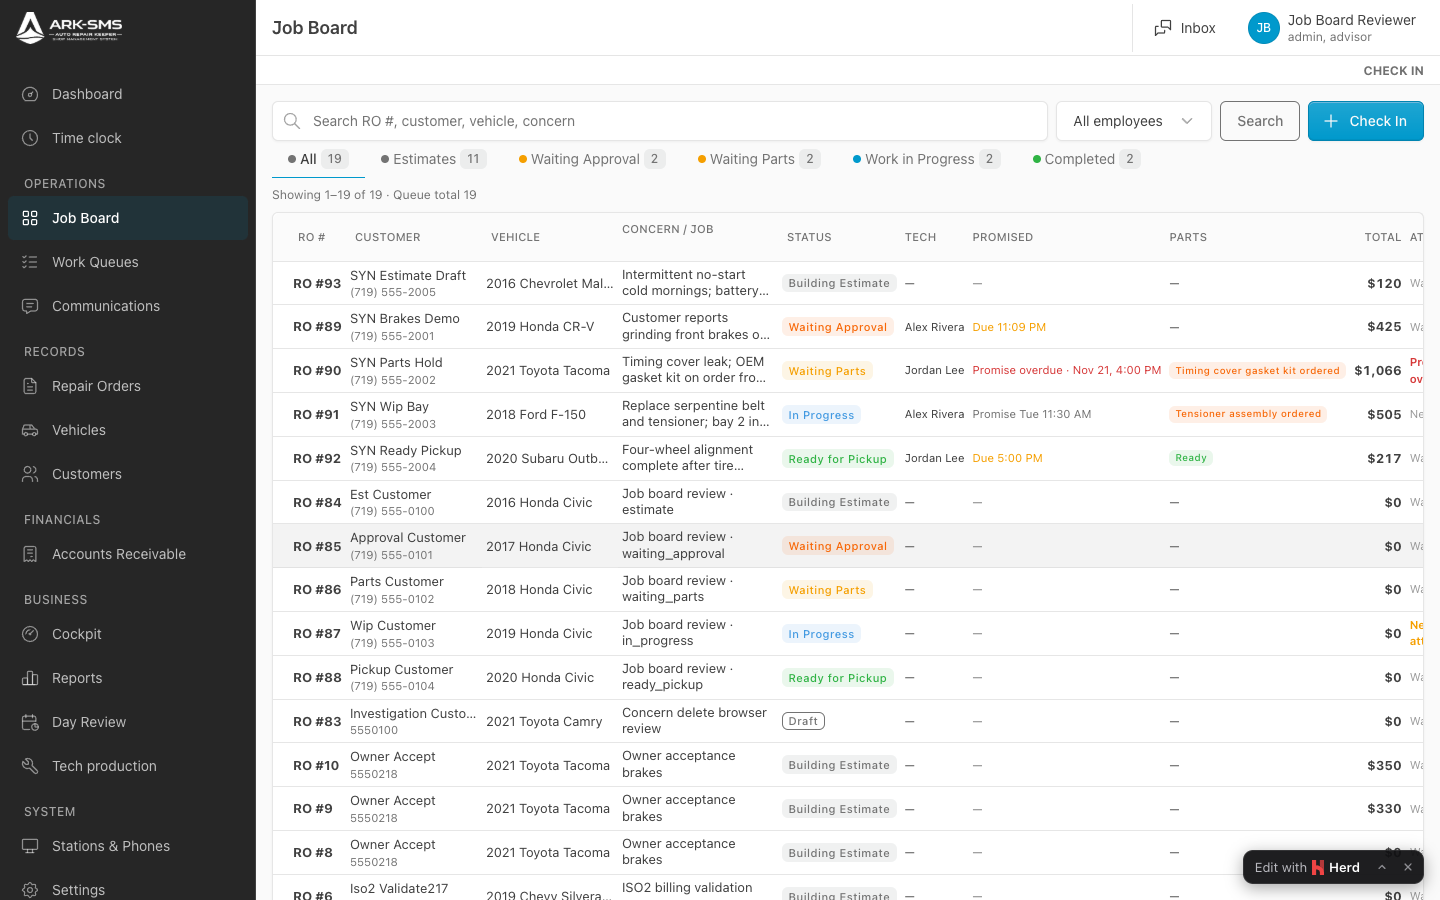
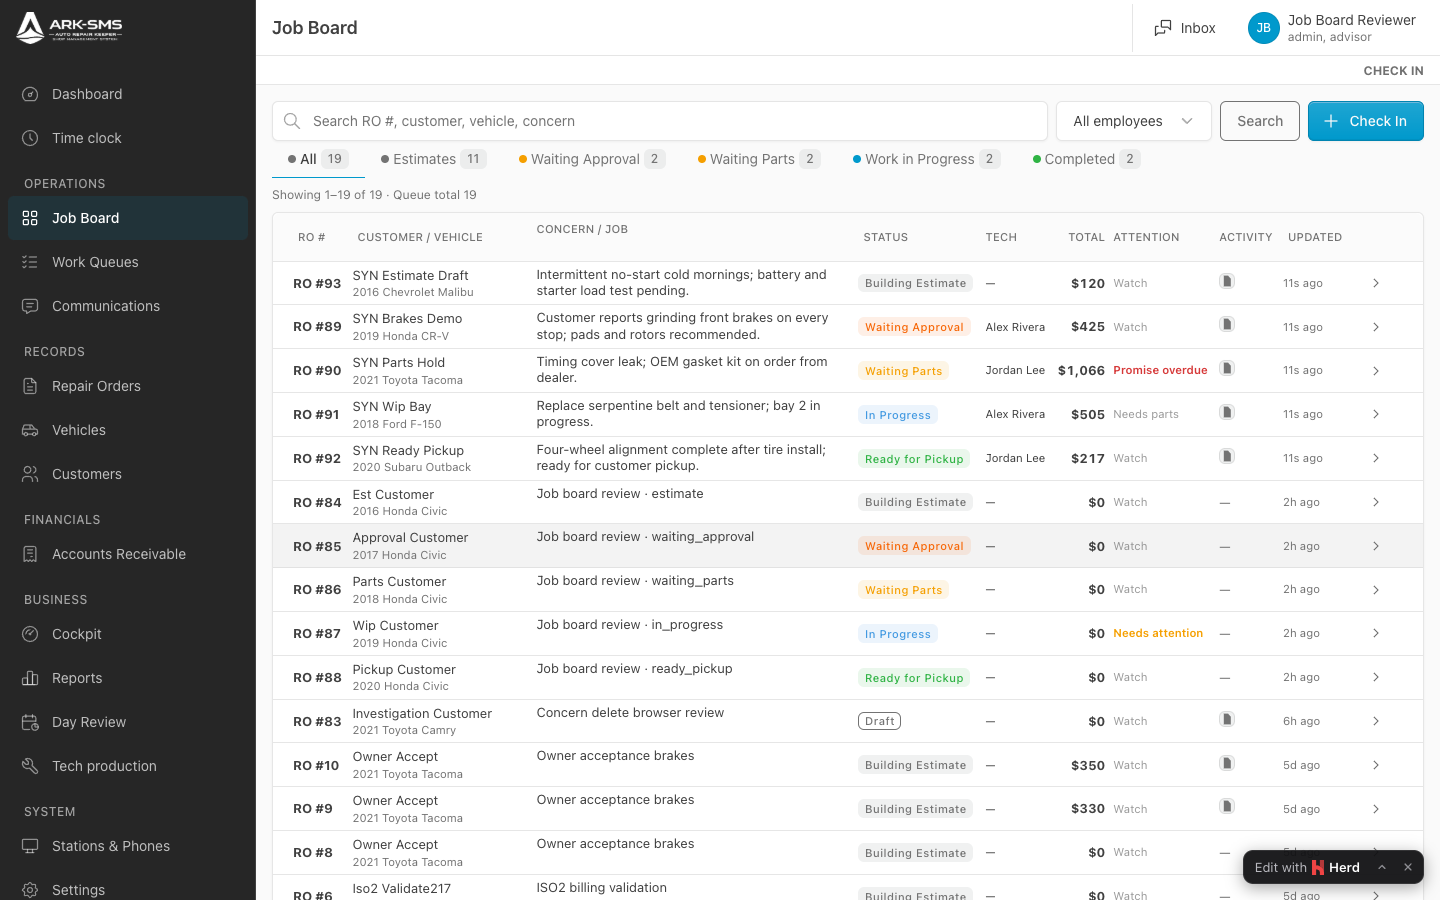
Tighten Job Board columns to owner RO index layout (#252).
Drop Promised and Parts from the list presentation, combine Customer/Vehicle, and give Concern the reclaimed width without changing underlying promise or parts workflows.

diff --git a/resources/css/tabler.css b/resources/css/tabler.css
@@ -64,18 +64,17 @@
     font-size: 0.8125rem;
 }
 
-.ark-job-board-table .ark-job-board-col-customer {
-    max-width: 8.5rem;
-}
-
-.ark-job-board-table .ark-job-board-col-vehicle {
-    max-width: 8.5rem;
+.ark-job-board-table .ark-job-board-col-customer-vehicle {
+    min-width: 9rem;
+    max-width: 14rem;
+    width: 16%;
+    vertical-align: top;
 }
 
 .ark-job-board-table .ark-job-board-col-concern {
-    min-width: 10rem;
-    max-width: 16rem;
-    width: 16%;
+    min-width: 12rem;
+    max-width: 28rem;
+    width: 28%;
     vertical-align: top;
 }
 
@@ -109,9 +108,14 @@
         --tblr-table-cell-padding-x: 0.3rem;
     }
 
-    .ark-job-board-table .ark-job-board-col-concern {
-        min-width: 8.5rem;
+    .ark-job-board-table .ark-job-board-col-customer-vehicle {
+        min-width: 8rem;
         max-width: 12rem;
+    }
+
+    .ark-job-board-table .ark-job-board-col-concern {
+        min-width: 10rem;
+        max-width: 18rem;
     }
 }
 

diff --git a/tests/Feature/Operations/JobBoardListViewTest.php b/tests/Feature/Operations/JobBoardListViewTest.php
@@ -77,10 +77,17 @@ test('job board table renders dense columns including total and activity marks',
         ->and($xpath->query('.//*[@id="ops-list-ro-'.$parts->repair_order_id.'"]', $board)->length)->toBe(1)
         ->and($xpath->query('.//*[@id="ops-list-ro-'.$closed->repair_order_id.'"]', $board)->length)->toBe(0)
         ->and($xpath->query('.//*[@data-job-board-sort="ro"]', $board)->length)->toBe(1)
+        ->and($xpath->query('.//*[@data-job-board-sort="customer"]', $board)->length)->toBe(1)
+        ->and($xpath->query('.//*[@data-job-board-row-customer-vehicle]', $board)->length)->toBe(2)
         ->and($xpath->query('.//*[@data-job-board-row-total]', $board)->length)->toBe(2)
         ->and($xpath->query('.//*[@data-job-board-row-activity]', $board)->length)->toBe(2)
+        ->and($xpath->query('.//*[@data-job-board-row-promised]', $board)->length)->toBe(0)
+        ->and($xpath->query('.//*[@data-job-board-row-parts]', $board)->length)->toBe(0)
+        ->and($html)->toContain('Customer / Vehicle')
         ->and($html)->toContain('Brake noise diagnosis')
         ->and($html)->toContain('Attention')
+        ->and($html)->not->toContain('>Promised<')
+        ->and($html)->not->toContain('>Parts</th>')
         ->and($html)->toContain('data-job-board-list-mobile');
 });
 
@@ -344,10 +351,13 @@ test('job board click contract keeps RO vehicle and customer destinations separa
         ->and($vehicleHref)->toContain('/repair-orders/'.$roId)
         ->and($customerHref)->toContain('/customers/'.$customerId)
         ->and($customerHref)->not->toContain('/repair-orders/')
-        ->and($xpath->query('.//td[@data-job-board-row-concern]//a', $row)->length)->toBe(0);
+        ->and($xpath->query('.//*[@data-job-board-row-customer-vehicle]', $row)->length)->toBe(1)
+        ->and($xpath->query('.//td[@data-job-board-row-concern]//a', $row)->length)->toBe(0)
+        ->and($xpath->query('.//*[@data-job-board-row-promised]', $row)->length)->toBe(0)
+        ->and($xpath->query('.//*[@data-job-board-row-parts]', $row)->length)->toBe(0);
 });
 
-test('job board acceptance scenario surfaces tech promise parts and varied totals', function () {
+test('job board acceptance scenario surfaces tech status totals without promised or parts columns', function () {
     $advisor = actingAsLearnCurrentAdvisor();
     JobBoardAcceptanceScenario::seed($advisor);
 
@@ -362,10 +372,13 @@ test('job board acceptance scenario surfaces tech promise parts and varied total
         ->and($html)->toContain('Alex Rivera')
         ->and($html)->toContain('Jordan Lee')
         ->and($html)->toContain('grinding front brakes')
-        ->and($html)->toContain('Promise overdue')
-        ->and($html)->toContain('Due ')
-        ->and($html)->toContain('Promise ')
-        ->and($xpath->query('//*[@data-job-board-row-parts]//*[contains(@class,"badge")]')->length)->toBeGreaterThan(0)
+        ->and($html)->toContain('Customer / Vehicle')
+        ->and($html)->toContain('Waiting Parts')
+        ->and($xpath->query('//*[@data-job-board-row-customer-vehicle]', $document)->length)->toBeGreaterThan(0)
+        ->and($xpath->query('//*[@data-job-board-row-promised]', $document)->length)->toBe(0)
+        ->and($xpath->query('//*[@data-job-board-row-parts]', $document)->length)->toBe(0)
+        ->and($html)->not->toContain('>Promised<')
+        ->and($html)->not->toContain('>Parts</th>')
         ->and($html)->toContain('$425')
         ->and($html)->toContain('$1,066');
 });

diff --git a/resources/views/operations/workboard/partials/home-board-list-row.blade.php b/resources/views/operations/workboard/partials/home-board-list-row.blade.php
@@ -4,7 +4,6 @@
     $surface = $row->surface;
     $repairOrder = $card->repairOrder;
     $customerName = trim((string) ($repairOrder->customer?->name ?? ''));
-    $customerPhone = filled($surface->customerPhone) ? $surface->customerPhone : null;
     $statusLabel = filled($surface->chip->label) ? $surface->chip->label : 'No Status';
     $statusTone = filled($surface->chip->statusColor)
         ? \App\Ark\Operations\RepairOrders\Status\RepairOrderStatusColor::chipTone($surface->chip->statusColor)
@@ -16,11 +15,6 @@
         default => $surface->exceptionLabel,
     };
     $builderUrl = $card->href.'#builder';
-    $promiseToneClass = match ($surface->promiseTone) {
-        'overdue' => 'text-danger',
-        'today' => 'text-warning',
-        default => 'text-secondary',
-    };
     $isBalanceDue = $row->moneyCaption === 'due';
     $moneyLabel = filled($row->moneyLabel) ? $row->moneyLabel : '$0';
     $markClasses = fn (string $state): string => match ($state) {
@@ -52,7 +46,7 @@
     <td>
         <a href="{{ $builderUrl }}" class="fw-bold text-reset text-nowrap" data-job-board-row-ro data-job-card-ro>RO #{{ $repairOrder->repair_order_id }}</a>
     </td>
-    <td class="ark-job-board-col-customer">
+    <td class="ark-job-board-col-customer-vehicle" data-job-board-row-customer-vehicle>
         <div class="text-truncate">
             @if ($surface->customerHubUrl)
                 <a href="{{ $surface->customerHubUrl }}" class="text-reset" data-job-board-row-customer data-job-card-customer>{{ $customerName !== '' ? $customerName : 'Unknown customer' }}</a>
@@ -60,12 +54,9 @@
                 <span data-job-board-row-customer data-job-card-customer>{{ $customerName !== '' ? $customerName : 'Unknown customer' }}</span>
             @endif
         </div>
-        @if ($customerPhone)
-            <div class="small text-secondary text-truncate d-none d-xxl-block">{{ $customerPhone }}</div>
-        @endif
-    </td>
-    <td class="text-truncate ark-job-board-col-vehicle">
-        <a href="{{ $builderUrl }}" class="text-reset" data-job-board-row-vehicle data-job-card-vehicle>{{ $card->vehicleLabel }}</a>
+        <div class="small text-secondary text-truncate">
+            <a href="{{ $builderUrl }}" class="text-reset" data-job-board-row-vehicle data-job-card-vehicle>{{ $card->vehicleLabel }}</a>
+        </div>
     </td>
     <td
         class="text-body ark-job-board-col-concern"
@@ -81,16 +72,6 @@
     </td>
     <td class="text-nowrap small" data-job-board-row-technician>
         {{ $row->technicianName ?? '—' }}
-    </td>
-    <td @class(['text-nowrap small', $promiseToneClass]) data-job-board-row-promised>
-        {{ $surface->promiseLabel ?? '—' }}
-    </td>
-    <td class="text-nowrap small" data-job-board-row-parts>
-        @if ($row->partsLabel)
-            <span @class(['badge', $row->partsLabel === 'Ready' ? 'bg-success-lt' : 'bg-orange-lt'])>{{ $row->partsLabel }}</span>
-        @else
-            —
-        @endif
     </td>
     <td @class(['text-nowrap text-end fw-bold ark-money', 'text-danger' => $isBalanceDue]) data-job-board-row-total data-job-card-total>
         {{ $moneyLabel }}

diff --git a/resources/views/operations/workboard/partials/home-board-list.blade.php b/resources/views/operations/workboard/partials/home-board-list.blade.php
@@ -37,22 +37,17 @@
                 <table class="table table-vcenter table-hover card-table table-sm mb-0 ark-job-board-table">
                     <thead>
                         <tr>
-                            @foreach ([
-                                'ro' => 'RO #',
-                                'customer' => 'Customer',
-                                'vehicle' => 'Vehicle',
-                            ] as $sortKey => $label)
-                                <th scope="col" @if ($jobBoardListPage->ariaSort($sortKey)) aria-sort="{{ $jobBoardListPage->ariaSort($sortKey) }}" @endif>
-                                    <a href="{{ $jobBoardListPage->sortUrl($sortKey) }}" class="btn btn-ghost-secondary btn-sm px-1" data-job-board-sort="{{ $sortKey }}">{{ $label }}</a>
-                                </th>
-                            @endforeach
+                            <th scope="col" @if ($jobBoardListPage->ariaSort('ro')) aria-sort="{{ $jobBoardListPage->ariaSort('ro') }}" @endif>
+                                <a href="{{ $jobBoardListPage->sortUrl('ro') }}" class="btn btn-ghost-secondary btn-sm px-1" data-job-board-sort="ro">RO #</a>
+                            </th>
+                            <th scope="col" class="ark-job-board-col-customer-vehicle" @if ($jobBoardListPage->ariaSort('customer')) aria-sort="{{ $jobBoardListPage->ariaSort('customer') }}" @endif>
+                                <a href="{{ $jobBoardListPage->sortUrl('customer') }}" class="btn btn-ghost-secondary btn-sm px-1" data-job-board-sort="customer">Customer / Vehicle</a>
+                            </th>
                             <th scope="col" class="ark-job-board-col-concern">Concern / Job</th>
                             <th scope="col" @if ($jobBoardListPage->ariaSort('status')) aria-sort="{{ $jobBoardListPage->ariaSort('status') }}" @endif>
                                 <a href="{{ $jobBoardListPage->sortUrl('status') }}" class="btn btn-ghost-secondary btn-sm px-1" data-job-board-sort="status">Status</a>
                             </th>
                             <th scope="col">Tech</th>
-                            <th scope="col">Promised</th>
-                            <th scope="col">Parts</th>
                             <th scope="col" class="text-end">Total</th>
                             <th scope="col">
                                 <span title="ARK attention signal, not a user-entered priority" data-job-board-sort="attention">Attention</span>

diff --git a/review-artifacts/issue-251-job-board-list/ACCEPTANCE.md b/review-artifacts/issue-251-job-board-list/ACCEPTANCE.md
@@ -1,37 +1,60 @@
-# Issue #251 / PR #252 — Job Board refinement acceptance
+# Issue #251 / PR #252 — RO index owner layout refinement
 
 Stop for Carlos/owner visual inspection. No merge. No deploy. No SaaS pin. No production data changes.
 
-Addresses review [#7120427094](https://github.com/EdwardSoaresJr/ark-core/pull/252#issuecomment-7120427094) on SHA `1f86111d`.
+Implements the presentation direction in `docs/product/RO_INDEX_OWNER_PROPOSAL_2026-11-23.md` (`f607227be9b4771247e17332f1853024431df786`) against prior SHA `c7310431`.
 
 ## Commit
 
 Recorded on push (see PR comment for exact SHA).
 
-## Refinement checklist
+## Desktop column layout
 
-| Item | Result |
+| Column | Present |
 | --- | --- |
-| **Concern / Job readability** | List uses full `concern_summary` with CSS 2-line clamp (`ark-job-board-concern-text`); tooltip has full text. Not truncated by card headline limit. |
-| **Routine Watch muted** | `data-attention-tone="watch"` → `text-secondary` + normal weight + reduced opacity. `attention` / `critical` stay warning/danger + full opacity. |
-| **Synthetic ROs** | `Tests\Support\JobBoardAcceptanceScenario` seeds SYN-* customers only (purge/reseed safe). Techs Alex Rivera / Jordan Lee, promises (incl. overdue), parts badges, totals `$120` / `$425` / `$505` / `$217` / `$1,066`. |
-| **Click contract** | RO # → RO builder; Customer → customer hub; Vehicle → RO builder; Concern is plain text (no link). |
+| RO # | Yes → RO |
+| Customer / Vehicle | Combined two-line cell; customer → customer hub; vehicle → RO |
+| Concern / Job | Full `concern_summary`, 2-line clamp, tooltip |
+| Status | Yes (incl. Waiting Parts) |
+| Tech | Yes |
+| Total | Yes |
+| Attention | Yes (Watch muted; attention/critical prominent) |
+| Activity | Yes (compact active marks) |
+| Updated | Yes |
+| **Promised** | **Absent from list UI** (DB/commitments unchanged) |
+| **Parts** | **Absent from list UI** (procurement/RO detail unchanged) |
 
-## Layout verification (local browser)
+Phone numbers are not shown in the combined cell (avoids overcrowding); available via customer/RO navigation.
+
+## Layout verification (Playwright screenshots)
 
 | Viewport | Result |
 | --- | --- |
-| **1366×900** | Table-first board; concern 2-line clamp; SYN rows visible. Screenshot: `screenshots/list-desktop-1366.png` |
-| **1440×900** | Same; mid desktop. Screenshot: `screenshots/list-desktop-1440.png` |
-| **1920×1080** | Full concern lines often fit; phones under customer; no wrap overflow. Screenshot: `screenshots/list-desktop-1920.png` |
-| **390×844** | Compact mobile cards (prior work unchanged). Screenshot: `screenshots/list-mobile-390.png` |
+| **1366×900** | Overflow **0**. Promised/Parts headers absent. Combined customer/vehicle + wider concern. `screenshots/list-desktop-1366.png` |
+| **1440×900** | Comfortable spacing; overflow 0. `screenshots/list-desktop-1440.png` |
+| **1920×1080** | Concern uses reclaimed width naturally; overflow 0. `screenshots/list-desktop-1920.png` |
+| **390×844** | Existing compact mobile cards retained (not desktop table). `screenshots/list-mobile-390.png` |
 
-Local login for inspection: `jobboard-review-251@example.test` / `Review251!` (synthetic only). Reseed: `php review-artifacts/issue-251-job-board-list/seed-syn.php`.
+Local login: `jobboard-review-251@example.test` / `Review251!`. Reseed SYN rows: `php review-artifacts/issue-251-job-board-list/seed-syn.php`.
 
 ## Focused tests
 
-`JobBoardListViewTest` — concern clamp, Watch tone, click contract, acceptance scenario (**4 new / 14 total passing**).
+`JobBoardListViewTest` + `AdvisorHomeAttentionBoardTest` — **22 passed**.
+
+Covered: combined customer/vehicle markup, absent promised/parts cells, click contract, concern clamp, Watch tone, SYN acceptance totals/status.
+
+## Underlying fields preserved
+
+- Operational commitments / promised dates still stored and usable in RO detail / attention signals.
+- Parts procurement states and Waiting Parts status unchanged.
+- No migrations; no billing/authorization changes.
+
+## Owner review notes (not fixed in this slice)
+
+1. Default **Watch** still appears on many idle rows — proposal asked to document ambiguous Watch rather than rewrite the classifier here.
+2. Existing attention can show **Promise overdue** or **Needs parts** even without Promised/Parts columns; that is residual classifier output, not new business rules.
+3. Mobile cards still emphasize vehicle + next action; full concern text remains desktop-first.
 
 ## Still out of scope
 
-No merge, staging/production deploy, SaaS pin, or production data mutation. PR stays **draft**.
+No merge, deploy, SaaS pin, production data, Sites freeze change, or Attention rule rewrite.
